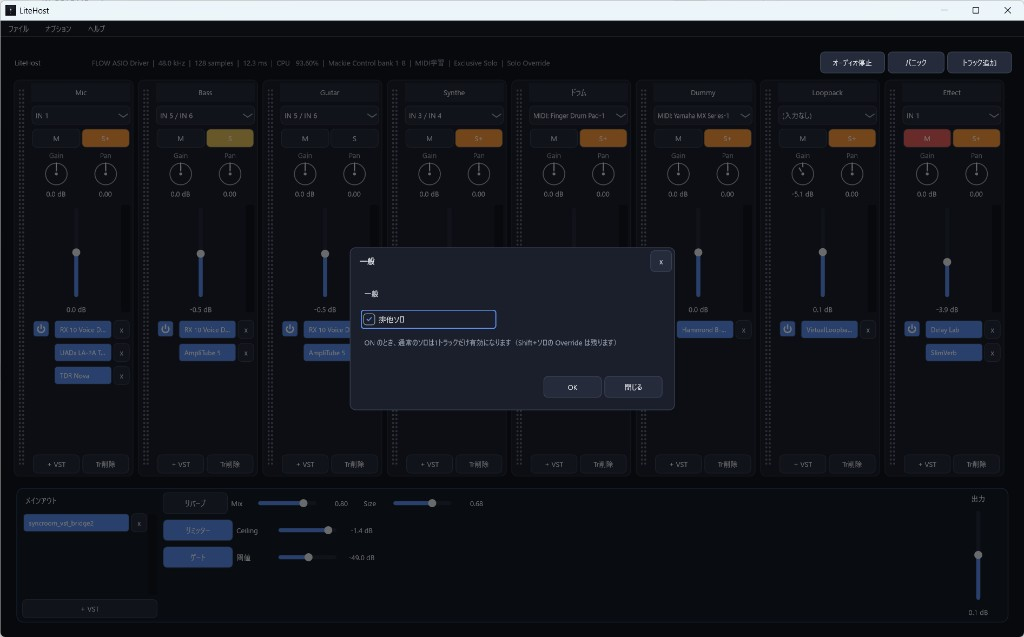
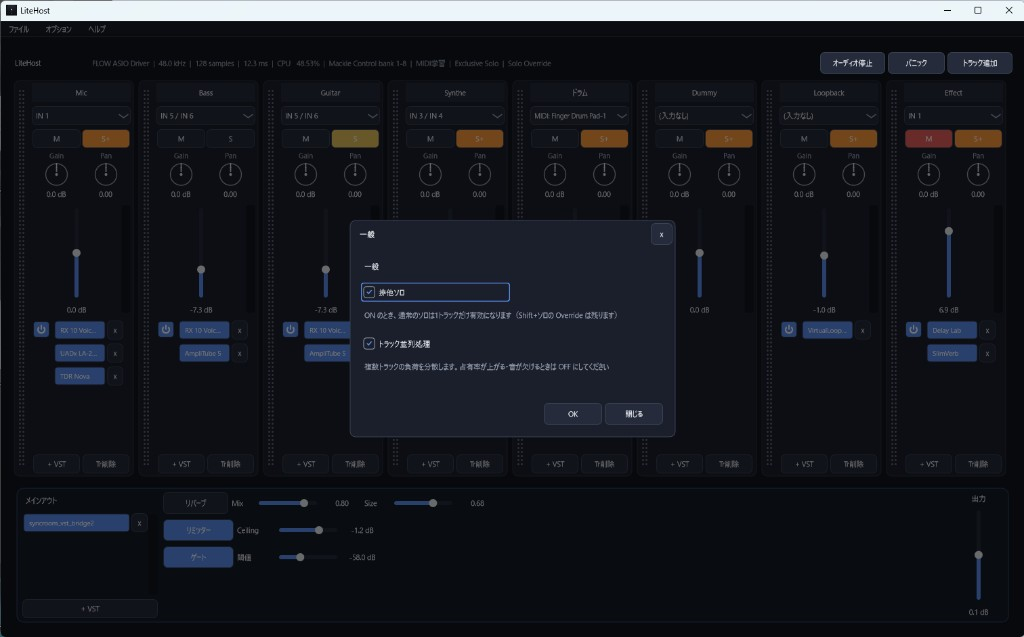
feat: トラック並列のON/OFFと起動コスト削減
一般オプションで並列処理を切り替え可能に。必要本数だけワーカーを起こし、Macはヘルパー数・優先度を抑える（0.2.3）。

diff --git a/src/audio/ParallelTrackExecutor.cpp b/src/audio/ParallelTrackExecutor.cpp
@@ -7,7 +7,13 @@ public:
         : juce::Thread ("LHTrack" + juce::String (index)),
           owner (ownerToUse)
     {
-        startThread (juce::Thread::Priority::highest);
+        // Keep helpers below the audio callback priority so they don't fight the I/O thread.
+        // On Apple Silicon, highest-priority helpers tend to wake P-cores and inflate occupancy.
+       #if JUCE_MAC
+        startThread (juce::Thread::Priority::normal);
+       #else
+        startThread (juce::Thread::Priority::high);
+       #endif
     }
 
     ~Worker() override
@@ -52,8 +58,12 @@ void ParallelTrackExecutor::ensureStarted()
         return;
 
     const int cpus = juce::jmax (1, juce::SystemStats::getNumCpus());
-    // Audio thread also steals work; spawn (cpus - 1) helpers, cap to keep scheduling light.
+   #if JUCE_MAC
+    // Prefer fewer helpers on hybrid Apple CPUs; audio thread still steals work.
+    const int helperCount = juce::jlimit (0, 4, (cpus + 1) / 2);
+   #else
     const int helperCount = juce::jlimit (0, 8, cpus - 1);
+   #endif
 
     exitFlag.store (false, std::memory_order_release);
     workers.reserve ((size_t) helperCount);
@@ -107,26 +117,38 @@ void ParallelTrackExecutor::runJobsOnThisThread() noexcept
     }
 }
 
-void ParallelTrackExecutor::processAndMix (Job* jobList,
+void ParallelTrackExecutor::processSerial (Job* jobList,
                                            int numJobs,
                                            const float* const* inputs,
                                            int numInputChannelsIn,
                                            int numSamplesIn,
                                            juce::AudioBuffer<float>& master) noexcept
 {
+    for (int i = 0; i < numJobs; ++i)
+    {
+        auto& job = jobList[i];
+        if (job.track == nullptr || job.midi == nullptr)
+            continue;
+        job.track->processInputs (inputs, numInputChannelsIn, numSamplesIn, *job.midi);
+        job.track->mixTo (master, numSamplesIn);
+    }
+}
+
+void ParallelTrackExecutor::processAndMix (Job* jobList,
+                                           int numJobs,
+                                           const float* const* inputs,
+                                           int numInputChannelsIn,
+                                           int numSamplesIn,
+                                           juce::AudioBuffer<float>& master,
+                                           bool allowParallel) noexcept
+{
     if (jobList == nullptr || numJobs <= 0 || numSamplesIn <= 0)
         return;
 
-    if (numJobs == 1 || ! started || workers.empty())
+    // Parallel wake/join costs more than it saves for a single heavy track (common live case).
+    if (! allowParallel || numJobs < 2 || ! started || workers.empty())
     {
-        for (int i = 0; i < numJobs; ++i)
-        {
-            auto& job = jobList[i];
-            if (job.track == nullptr || job.midi == nullptr)
-                continue;
-            job.track->processInputs (inputs, numInputChannelsIn, numSamplesIn, *job.midi);
-            job.track->mixTo (master, numSamplesIn);
-        }
+        processSerial (jobList, numJobs, inputs, numInputChannelsIn, numSamplesIn, master);
         return;
     }
 
@@ -140,8 +162,10 @@ void ParallelTrackExecutor::processAndMix (Job* jobList,
     doneEvent.reset();
     std::atomic_thread_fence (std::memory_order_release);
 
-    for (auto& worker : workers)
-        worker->kick();
+    // Wake only as many helpers as can usefully steal work (not the whole pool).
+    const int helpersToKick = juce::jmin ((int) workers.size(), numJobs - 1);
+    for (int i = 0; i < helpersToKick; ++i)
+        workers[(size_t) i]->kick();
 
     runJobsOnThisThread();
 

diff --git a/src/ui/SettingsDialogs.cpp b/src/ui/SettingsDialogs.cpp
@@ -195,7 +195,7 @@ void MidiLearnSettingsPanel::resized()
     ok.setBounds (buttons.removeFromRight (90).reduced (2));
 }
 
-OptionsGeneralPanel::OptionsGeneralPanel (bool exclusiveSolo)
+OptionsGeneralPanel::OptionsGeneralPanel (bool exclusiveSolo, bool parallelTracks)
 {
     title.setText (jp (u8"一般"), juce::dontSendNotification);
     title.setFont (LiteLookAndFeel::uiFont (16.0f, juce::Font::bold));
@@ -211,6 +211,17 @@ OptionsGeneralPanel::OptionsGeneralPanel (bool exclusiveSolo)
                            juce::dontSendNotification);
     exclusiveHint.setColour (juce::Label::textColourId, juce::Colour (LiteLookAndFeel::muted));
     addAndMakeVisible (exclusiveHint);
+
+    parallelTracksToggle.setButtonText (jp (u8"トラック並列処理"));
+    parallelTracksToggle.setClickingTogglesState (true);
+    parallelTracksToggle.setToggleState (parallelTracks, juce::dontSendNotification);
+    parallelTracksToggle.setTooltip (jp (u8"ON: 有効トラックの VST を複数コアで並列処理（マスター VST は常に直列）。\nOFF: すべてオーディオスレッドで直列。CPU 占有やノイズが出るときは OFF を試してください。"));
+    addAndMakeVisible (parallelTracksToggle);
+
+    parallelHint.setText (jp (u8"複数トラックの負荷を分散します。占有率が上がる・音が欠けるときは OFF にしてください"),
+                          juce::dontSendNotification);
+    parallelHint.setColour (juce::Label::textColourId, juce::Colour (LiteLookAndFeel::muted));
+    addAndMakeVisible (parallelHint);
 
     ok.setButtonText (jp (u8"OK"));
     ok.onClick = [this] {
@@ -231,8 +242,11 @@ void OptionsGeneralPanel::resized()
     auto r = getLocalBounds().reduced (16);
     title.setBounds (r.removeFromTop (24));
     r.removeFromTop (12);
-    exclusiveSoloToggle.setBounds (r.removeFromTop (28).removeFromLeft (200));
+    exclusiveSoloToggle.setBounds (r.removeFromTop (28).removeFromLeft (220));
     exclusiveHint.setBounds (r.removeFromTop (40));
+    r.removeFromTop (8);
+    parallelTracksToggle.setBounds (r.removeFromTop (28).removeFromLeft (220));
+    parallelHint.setBounds (r.removeFromTop (40));
     auto buttons = r.removeFromBottom (36);
     close.setBounds (buttons.removeFromRight (90).reduced (2));
     ok.setBounds (buttons.removeFromRight (90).reduced (2));

diff --git a/src/ui/MainComponent.cpp b/src/ui/MainComponent.cpp
@@ -696,9 +696,10 @@ void MainComponent::showMidiLearnSettings()
 
 void MainComponent::showOptionsGeneral()
 {
-    auto panel = std::make_unique<OptionsGeneralPanel> (mixer.getExclusiveSoloMode());
+    auto panel = std::make_unique<OptionsGeneralPanel> (mixer.getExclusiveSoloMode(),
+                                                        mixer.getParallelTracksEnabled());
     auto* panelPtr = panel.get();
-    panel->setSize (480, 200);
+    panel->setSize (480, 280);
     auto* window = AppModalDialog::launchPanel (this, std::move (panel), jp (u8"一般"), false);
     panelPtr->onClose = [window] {
         if (window != nullptr)
@@ -706,6 +707,7 @@ void MainComponent::showOptionsGeneral()
     };
     panelPtr->onOk = [this, panelPtr] {
         mixer.setExclusiveSoloMode (panelPtr->getExclusiveSolo());
+        mixer.setParallelTracksEnabled (panelPtr->getParallelTracks());
         saveAppSettings();
         status.setText (makeStatusText(), juce::dontSendNotification);
     };
@@ -1133,7 +1135,7 @@ void MainComponent::startUpdateCheck()
 
     const auto current = juce::JUCEApplicationBase::getInstance() != nullptr
                              ? juce::JUCEApplicationBase::getInstance()->getApplicationVersion()
-                             : juce::String ("0.2.2");
+                             : juce::String ("0.2.3");
 
     updateChecker->start (current, appSettings.skippedReleaseTag,
                           [safe = juce::Component::SafePointer<MainComponent> (this)] (UpdateChecker::Result result) {

diff --git a/src/audio/ParallelTrackExecutor.h b/src/audio/ParallelTrackExecutor.h
@@ -24,13 +24,15 @@ public:
     void ensureStarted();
     void shutdown();
 
-    /** Process each job's processInputs (parallel), then mixTo master (serial). Audio-thread only. */
+    /** Process each job's processInputs, then mixTo master (serial). Audio-thread only.
+        When allowParallel is false (or too few jobs), runs entirely on the calling thread. */
     void processAndMix (Job* jobs,
                         int numJobs,
                         const float* const* inputs,
                         int numInputChannels,
                         int numSamples,
-                        juce::AudioBuffer<float>& master) noexcept;
+                        juce::AudioBuffer<float>& master,
+                        bool allowParallel) noexcept;
 
     int getWorkerCount() const noexcept { return (int) workers.size(); }
 
@@ -40,6 +42,12 @@ private:
 
     void workerLoop() noexcept;
     void runJobsOnThisThread() noexcept;
+    void processSerial (Job* jobList,
+                        int numJobs,
+                        const float* const* inputs,
+                        int numInputChannels,
+                        int numSamples,
+                        juce::AudioBuffer<float>& master) noexcept;
 
     std::vector<std::unique_ptr<Worker>> workers;
 

diff --git a/src/app/AppSettingsStore.cpp b/src/app/AppSettingsStore.cpp
@@ -40,6 +40,7 @@ void AppSettingsStore::load (AudioEngine& engine,
                 extraVstPaths.addIfNotAlreadyThere (child->getStringAttribute ("value"));
 
     engine.exclusiveSoloMode = xml->getBoolAttribute ("exclusiveSoloMode", false);
+    engine.parallelTracksEnabled = xml->getBoolAttribute ("parallelTracksEnabled", true);
     surface.readXml (*xml);
     learn.readXml (*xml);
 }
@@ -54,6 +55,7 @@ void AppSettingsStore::save (const AudioEngine& engine,
     xml.setAttribute ("windowState", windowState);
     xml.setAttribute ("skippedReleaseTag", skippedReleaseTag);
     xml.setAttribute ("exclusiveSoloMode", engine.exclusiveSoloMode.load() ? 1 : 0);
+    xml.setAttribute ("parallelTracksEnabled", engine.parallelTracksEnabled.load() ? 1 : 0);
 
     auto* recent = xml.createNewChildElement ("RECENT");
     for (const auto& file : recentProjects)

diff --git a/src/ui/SettingsDialogs.h b/src/ui/SettingsDialogs.h
@@ -43,13 +43,14 @@ public:
     std::function<void()> onOk;
     std::function<void()> onClose;
 
-    explicit OptionsGeneralPanel (bool exclusiveSolo);
+    OptionsGeneralPanel (bool exclusiveSolo, bool parallelTracks);
     void resized() override;
 
     bool getExclusiveSolo() const { return exclusiveSoloToggle.getToggleState(); }
+    bool getParallelTracks() const { return parallelTracksToggle.getToggleState(); }
 
 private:
-    juce::Label title, exclusiveHint;
-    juce::ToggleButton exclusiveSoloToggle;
+    juce::Label title, exclusiveHint, parallelHint;
+    juce::ToggleButton exclusiveSoloToggle, parallelTracksToggle;
     juce::TextButton ok, close;
 };

diff --git a/src/audio/AudioEngine.cpp b/src/audio/AudioEngine.cpp
@@ -542,7 +542,8 @@ void AudioEngine::processActiveTracks (const float* const* inputChannelData,
         jobs[numJobs++] = { track.get(), trackMidi };
     }
 
-    trackExecutor.processAndMix (jobs, numJobs, inputChannelData, numInputChannels, numSamples, masterBus);
+    trackExecutor.processAndMix (jobs, numJobs, inputChannelData, numInputChannels, numSamples, masterBus,
+                                 parallelTracksEnabled.load (std::memory_order_relaxed));
 }
 
 void AudioEngine::audioDeviceIOCallbackWithContext (const float* const* inputChannelData,

diff --git a/src/session/MixerSession.cpp b/src/session/MixerSession.cpp
@@ -55,6 +55,16 @@ void MixerSession::setExclusiveSoloMode (bool enabled)
     engine.exclusiveSoloMode = enabled;
 }
 
+bool MixerSession::getParallelTracksEnabled() const
+{
+    return engine.parallelTracksEnabled.load();
+}
+
+void MixerSession::setParallelTracksEnabled (bool enabled)
+{
+    engine.parallelTracksEnabled = enabled;
+}
+
 void MixerSession::setTrackGain (TrackProcessor& track, float gainLinear, bool notifyUi)
 {
     track.gain = juce::jlimit (0.0f, juce::Decibels::decibelsToGain (12.0f), gainLinear);

diff --git a/src/audio/AudioEngine.h b/src/audio/AudioEngine.h
@@ -60,6 +60,8 @@ public:
     std::atomic<float> masterPeak { 0.0f };
     /** Cakewalk Exclusive Solo: next solo click unsilos other tracks. Override is kept. */
     std::atomic<bool> exclusiveSoloMode { false };
+    /** When true, active tracks may process on helper threads (see ParallelTrackExecutor). */
+    std::atomic<bool> parallelTracksEnabled { true };
 
     double getSampleRate() const noexcept { return sampleRate; }
     int getBlockSize() const noexcept { return blockSize; }

diff --git a/src/Main.cpp b/src/Main.cpp
@@ -10,7 +10,7 @@ class LiteHostApplication : public juce::JUCEApplication
 {
 public:
     const juce::String getApplicationName() override { return "LiteHost"; }
-    const juce::String getApplicationVersion() override { return "0.2.2"; }
+    const juce::String getApplicationVersion() override { return "0.2.3"; }
     bool moreThanOneInstanceAllowed() override { return false; }
 
     void initialise (const juce::String& commandLine) override

diff --git a/src/session/MixerSession.h b/src/session/MixerSession.h
@@ -31,6 +31,8 @@ public:
 
     bool getExclusiveSoloMode() const;
     void setExclusiveSoloMode (bool enabled);
+    bool getParallelTracksEnabled() const;
+    void setParallelTracksEnabled (bool enabled);
 
     void setTrackGain (TrackProcessor& track, float gainLinear, bool notifyUi = false);
     void setTrackTrim (TrackProcessor& track, float gainLinear, bool notifyUi = false);
